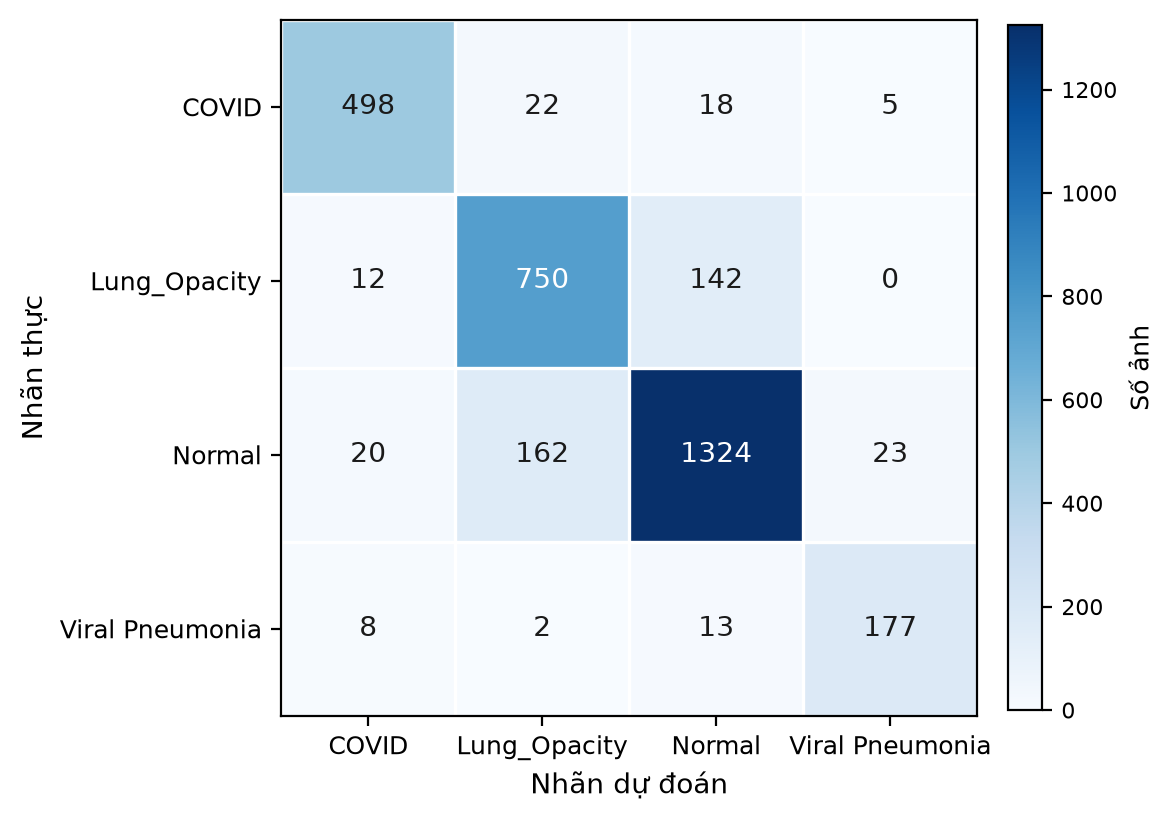
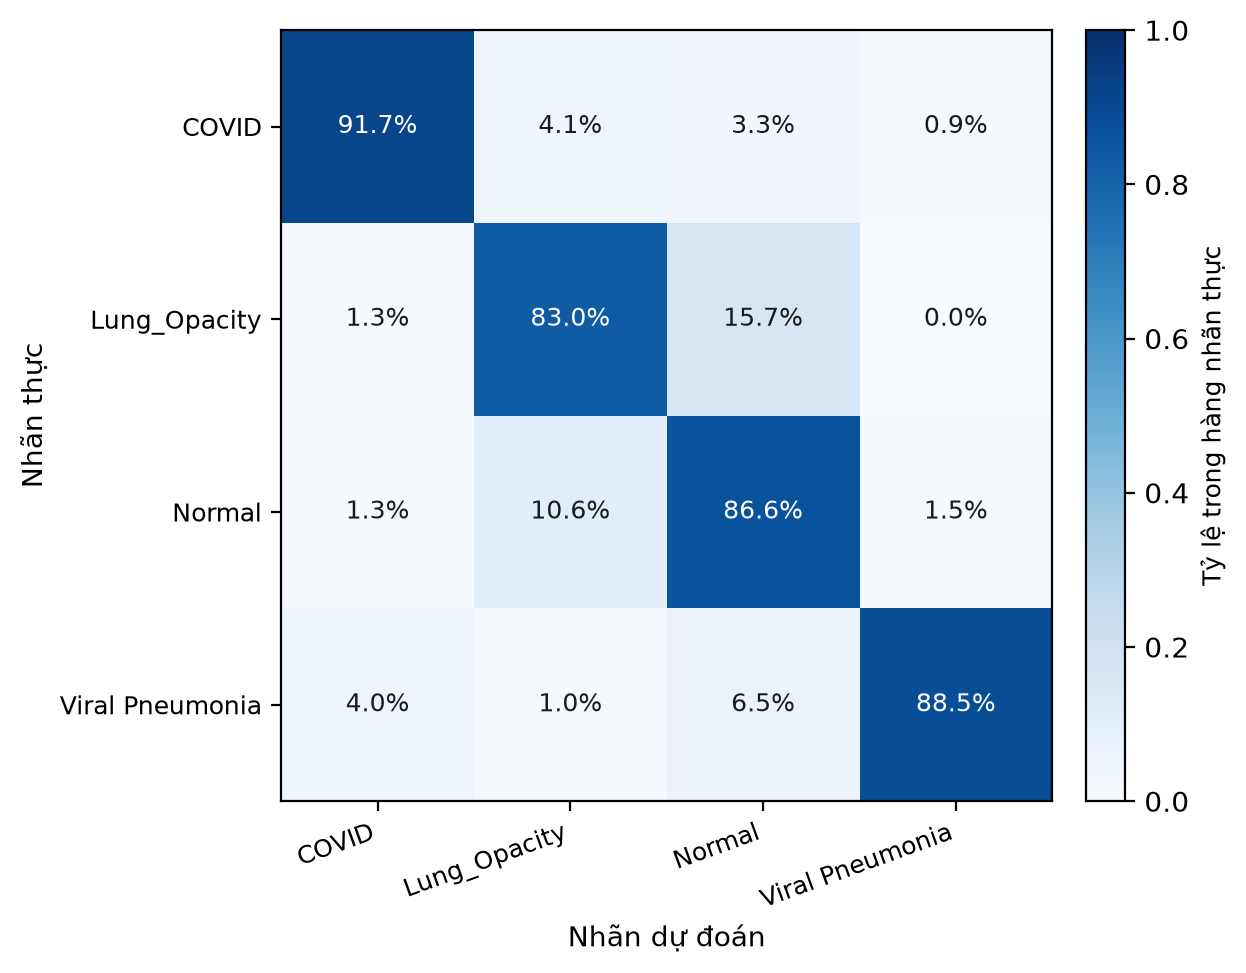
report: chapters 1/2/4/5 fixes per senior review + gap fixes beyond the review
Cac sua theo review senior ve ch5/ch6 va lo hong kiem them (ch1, ch2, ch4, ch5, script, README, report_standards):

- H1: muc 5.5.4 mo ta sai hai che đo (ban ghi tuong tac = 20 anh dau sau khi may nghi, mot luot, khong nghi giua cac anh; CPU giam toc ngay tu anh 13 cua lo 20). Viet lai theo dung ban ghi; bo cau 'cung mot mau', 'da thu nghi 1 giay', va bo duong dan src/ khoi than bai.
- H2: bang 5.5 ghi 'tren 600 phep do' nhung p90/p95 tinh tren 200 gia tri trung vi (tren 600 gt: 149,4/165,2). Tieu de, than bai va ghi chu neu ro cach gom.
- Thuat ngu: 'vung ngoai phoi' -> 'vung ngoai mat na phoi' o ch1 (4), ch2 (1), ch4 (14); giu ten kich ban 'chi ngoai phoi'.
- Lam tron: bang 5.3 COVID -4,00 va Lung_Opacity -1,97 tu gia tri chua lam tron; accuracy -2,45 diem (truoc: -4,01, -1,98, 2,44). Ghi chu ghi ca hai cach.
- Hinh 5.1: chuyen sang chuan hoa theo hang nhu Hinh 3.1 (script draw + ham normalize_rows), sinh lai PNG, caption moi, 2 test sua theo, 10 test xanh.
- So bo kiem thuc: 275/23 va '285/24, 273 pass' loi thoi -> 330 phep/25 module, chay thuc te tren moi truong pin: 329 pass, 1 skip (bo qua khi thieu nbformat). Test notebook doc guard pytest.importorskip.
- Trich dan: cau 'tiếp tu [7]' -> [9] o ch1 va ch5; [7]/[8] them ngay truy cap; cau '[7]' o 5.5.1 -> 'dang cong khai tren Hugging Face Hub'.
- 5.4: bo ma D1-D4/G1-G6 khoi than bai (mo ta bang loi, chu ky xuong ghi chu); cau Kaggle theo mau D (ghi nhan cua nguoi thuc hien, bang chung chua luu trong kho), bo S5-04.
[…]

diff --git a/tests/test_report_figures_final_test.py b/tests/test_report_figures_final_test.py
@@ -15,8 +15,8 @@ import pytest
 from scripts.report_figures_final_test import (
     CLASS_LABELS,
     build,
-    cell_labels,
     load_metrics,
+    normalize_rows,
 )
 
 REPO_ROOT = Path(__file__).resolve().parents[1]
@@ -111,21 +111,24 @@ def test_load_metrics_rejects_wrong_matrix_shape(tmp_path: Path) -> None:
         load_metrics(path)
 
 
-def test_cell_labels_are_strings_of_matrix_counts(tmp_path: Path) -> None:
-    """Chữ ghi trong từng ô hình phải là đúng số đếm của ma trận nguồn."""
+def test_row_normalization_matches_source_recall(tmp_path: Path) -> None:
+    """Hàng chuẩn hóa phải cho đúng recall từng lớp như tệp nguồn (ô chéo)."""
     path = tmp_path / "metrics.json"
     _write_metrics(path)
     metrics = load_metrics(path)
 
-    labels: List[List[str]] = cell_labels(metrics["confusion_matrix"])
+    shares = normalize_rows(metrics["confusion_matrix"])
 
-    assert len(labels) == 4 and all(len(row) == 4 for row in labels)
-    assert labels[0][0] == "498"
-    assert labels[1][1] == "750"
-    assert labels[2][3] == "23"
-    assert labels[3][3] == "177"
-    # Mỗi ô đúng một giá trị, không kèm ký tự khác.
-    assert all(value.isdigit() for row in labels for value in row)
+    assert len(shares) == 4 and all(len(row) == 4 for row in shares)
+    for i in range(4):
+        total = sum(metrics["confusion_matrix"][i])
+        assert sum(shares[i]) == pytest.approx(1.0)
+        for j in range(4):
+            assert shares[i][j] == pytest.approx(
+                metrics["confusion_matrix"][i][j] / total
+            )
+    # Hàng tổng 0 không gây lỗi chia.
+    assert normalize_rows([[0, 0], [1, 1]]) == [[0.0, 0.0], [0.5, 0.5]]
 
 
 def test_build_writes_figure_and_returns_source_values(tmp_path: Path) -> None:
@@ -158,10 +161,10 @@ def test_build_uses_real_metrics_file(tmp_path: Path) -> None:
     assert info["per_class"]["COVID"]["support"] == pytest.approx(543)
 
 
-def test_figure_annotations_pinned_to_repo_file(tmp_path: Path) -> None:
-    """Chữ trong ô hình phải khớp từng ô với metrics.json trong repo.
+def test_figure_rows_pinned_to_repo_file(tmp_path: Path) -> None:
+    """Hàng chuẩn hóa trên hình phải khớp từng ô với metrics.json trong repo.
 
-    Đây là chốt chặn chép nhầm: nếu ai sửa tay số trong hình hoặc trong chương
+    Đây là chốt chặn chép nhầm: nếu ai sửa tay nhãn trong hình hoặc trong chương
     lệch với tệp nguồn, kiểm thử này fail.
     """
     if not METRICS.exists():
@@ -169,11 +172,16 @@ def test_figure_annotations_pinned_to_repo_file(tmp_path: Path) -> None:
     source = json.loads(METRICS.read_text(encoding="utf-8"))
     matrix: List[List[int]] = source["confusion_matrix"]
 
-    labels = cell_labels(matrix)
+    shares = normalize_rows(matrix)
 
     for i, row in enumerate(matrix):
+        total = sum(row)
         for j, value in enumerate(row):
-            assert labels[i][j] == str(value)
+            assert shares[i][j] == pytest.approx(value / total)
+    # Ô chéo chính là recall lớp đó trong per_class của tệp nguồn.
+    for i, label in enumerate(CLASS_LABELS):
+        recall = float(source["per_class"][label]["recall"])
+        assert shares[i][i] == pytest.approx(recall)
 
 
 def test_supports_sum_to_test_size(tmp_path: Path) -> None:

diff --git a/scripts/report_figures_final_test.py b/scripts/report_figures_final_test.py
@@ -61,44 +61,48 @@ def load_metrics(metrics_path: Path) -> Dict[str, object]:
     return metrics
 
 
-def cell_labels(matrix: Sequence[Sequence[int]]) -> List[List[str]]:
-    """Chữ ghi trong từng ô hình: đúng số đếm của ma trận nguồn."""
-    return [[str(int(value)) for value in row] for row in matrix]
+def normalize_rows(matrix: Sequence[Sequence[int]]) -> List[List[float]]:
+    """Chuẩn hóa từng hàng cho tổng hàng; hàng tổng 0 giữ 0 để tránh chia cho 0."""
+    out: List[List[float]] = []
+    for row in matrix:
+        total = float(sum(int(value) for value in row))
+        if total <= 0.0:
+            out.append([0.0] * len(row))
+            continue
+        out.append([float(int(value)) / total for value in row])
+    return out
 
 
 def draw(metrics: Dict[str, object], out_path: Path) -> Path:
-    """Vẽ biểu đồ nhiệt ma trận nhầm lẫn, chữ thể hiện số đếm từng ô."""
+    """Vẽ biểu đồ nhiệt ma trận nhầm lẫn, chuẩn hóa theo hàng (ô chéo = recall)."""
     matrix = np.array(metrics["confusion_matrix"], dtype=int)
-    labels = cell_labels(matrix)
+    row_normalized = np.array(normalize_rows(matrix))
 
-    fig, ax = plt.subplots(figsize=(5.6, 4.6))
-    image = ax.imshow(matrix, cmap="Blues", vmin=0, vmax=int(matrix.max()))
-    colorbar = fig.colorbar(image, ax=ax, fraction=0.045, pad=0.04)
-    colorbar.set_label("Số ảnh", fontsize=9)
-    colorbar.ax.tick_params(labelsize=8)
+    fig, ax = plt.subplots(figsize=(6.0, 5.0))
+    image = ax.imshow(row_normalized, cmap="Blues", vmin=0.0, vmax=1.0)
 
-    threshold = float(matrix.max()) / 2.0
-    for i in range(len(CLASS_LABELS)):
-        for j in range(len(CLASS_LABELS)):
-            value = matrix[i, j]
-            ax.text(
-                j,
-                i,
-                str(value),
-                ha="center",
-                va="center",
-                fontsize=10,
-                color="white" if value > threshold else "#1A1A1A",
-            )
-
-    ax.set_xticks(range(len(CLASS_LABELS)), CLASS_LABELS, fontsize=9)
+    ax.set_xticks(range(len(CLASS_LABELS)), CLASS_LABELS, rotation=20, ha="right", fontsize=9)
     ax.set_yticks(range(len(CLASS_LABELS)), CLASS_LABELS, fontsize=9)
     ax.set_xlabel("Nhãn dự đoán", fontsize=10)
     ax.set_ylabel("Nhãn thực", fontsize=10)
-    ax.set_xticks(np.arange(-0.5, len(CLASS_LABELS), 1), minor=True)
-    ax.set_yticks(np.arange(-0.5, len(CLASS_LABELS), 1), minor=True)
-    ax.grid(which="minor", color="white", linewidth=1.2)
-    ax.tick_params(which="minor", length=0)
+
+    for i in range(len(CLASS_LABELS)):
+        for j in range(len(CLASS_LABELS)):
+            share = row_normalized[i, j]
+            color = "white" if share > 0.55 else "#1A1A1A"
+            ax.text(
+                j,
+                i,
+                f"{share:.1%}",
+                ha="center",
+                va="center",
+                fontsize=9,
+                color=color,
+            )
+
+    colorbar = fig.colorbar(image, ax=ax, fraction=0.046, pad=0.04)
+    colorbar.set_label("Tỷ lệ trong hàng nhãn thực", fontsize=9)
+    ax.set_aspect("equal")
     fig.tight_layout()
 
     out_path.parent.mkdir(parents=True, exist_ok=True)

diff --git a/src/inference_latency.py b/src/inference_latency.py
@@ -15,17 +15,12 @@ Quy tắc bắt buộc:
 - Đọc tệp ảnh nằm ngoài đồng hồ (ứng dụng nhận byte từ trình duyệt); đồng hồ chỉ
   bám các bước tính toán.
 
-Hai chế độ đo (phát hiện khi đo thực tế trên máy Windows): sau vài chục ảnh,
-CPU giảm tần và thời gian mỗi ảnh tăng gấp khoảng bốn lần rồi ổn định; nghỉ
-giữa các ảnh không đưa máy về trạng thái lạnh. Vì vậy:
+Hai chế độ đo (phát hiện khi đo thực tế trên máy Windows): sau một đoạn ảnh ngắn, thời gian mỗi ảnh tăng gấp khoảng bốn lần rồi ổn định; ảnh đầu của mỗi đợt đo, chạy ngay sau khi máy nghỉ, vẫn ở mức nhanh. Vì vậy:
 
-- **Chế độ tương tác** (người dùng tải từng ảnh, máy nghỉ giữa các lần): đo bằng
-  lượt **ngắn** (ví dụ ``--n 20``) chạy ngay sau khi máy nghỉ, ghi ra một thư mục
-  riêng (``results/demo_latency_interactive``).
-- **Chế độ chạy liên tục** (xử lý hàng loạt): đo bằng lô dài
-  (``--n 200 --repeats 3``), ghi ra ``results/demo_latency_sustained``.
+- **Chế độ ảnh đầu sau khi máy nghỉ**: đo bằng lượt **ngắn** (mặc định ``--n 20``, ``--repeats 1``) chạy ngay sau khi máy nghỉ, ghi ra một thư mục riêng (``results/demo_latency_interactive``). Lô này không chèn bước nghỉ giữa các ảnh.
+- **Chế độ chạy liên tục** (xử lý hàng loạt): đo bằng lô dài (``--n 200 --repeats 3``), ghi ra ``results/demo_latency_sustained``.
 
-Cùng một script, cùng seed nên hai bản ghi so trực tiếp được.
+Cùng một script, cùng seed, cùng cách chọn ảnh trên split ``val`` nên hai bản ghi so trực tiếp được; hai bản ghi dùng hai cỡ mẫu nên chỉ so ở mức phân phối, không so từng ảnh.
 
 Chạy trên máy cục bộ::
 

diff --git a/tests/test_inference_demo_notebook.py b/tests/test_inference_demo_notebook.py
@@ -29,8 +29,7 @@ def _cells(nb: dict, kind: str) -> List[str]:
 
 
 def test_notebook_is_valid_nbformat(nb: dict) -> None:
-    import nbformat
-
+    nbformat = pytest.importorskip("nbformat")
     nbformat.validate(nbformat.from_dict(nb))
 
 

diff --git a/report/01_gioi_thieu.md b/report/01_gioi_thieu.md
@@ -10,7 +10,7 @@ Nhãn lớp trong bộ dữ liệu không độc lập hoàn toàn với nguồn
 
 Đề tài dùng học máy cổ điển vì học phần quy định như vậy. Cách làm này cũng thuận cho việc đo đóng góp của từng nhóm đặc trưng: mỗi chiều đặc trưng ứng với một phép đo xác định trên ảnh nên so sánh thực nghiệm tách riêng được phần đóng góp của histogram, GLCM kết hợp LBP hay HOG. Toàn bộ pipeline trích đặc trưng thủ công rồi phân loại bằng scikit-learn [6] chạy trên CPU, không cần GPU, tái lập được từ một tệp cấu hình. Khi thay vùng ảnh đưa vào trích đặc trưng, mức thay đổi hiệu năng cho biết vai trò của vùng đó.
 
-Đề tài đặt ba câu hỏi nối tiếp trên cùng một tập validation 3.174 ảnh: nhóm đặc trưng nào hiệu quả nhất, bộ phân loại nào phù hợp nhất với nhóm đặc trưng đó, và mô hình còn giữ được hiệu năng bao nhiêu khi vùng phổi bị che hoặc khi chỉ còn vùng ngoài phổi. Câu hỏi thứ ba dùng để kiểm tra nghi vấn lối tắt: nếu mô hình vẫn cho macro-F1 cao khi chỉ còn vùng ngoài phổi thì nhiều khả năng nó dựa vào tín hiệu không liên quan đến tổn thương; nếu macro-F1 giảm mạnh thì vùng phổi đóng góp phần lớn thông tin.
+Đề tài đặt ba câu hỏi nối tiếp trên cùng một tập validation 3.174 ảnh: nhóm đặc trưng nào hiệu quả nhất, bộ phân loại nào phù hợp nhất với nhóm đặc trưng đó, và mô hình còn giữ được hiệu năng bao nhiêu khi vùng phổi bị che hoặc khi chỉ còn vùng ngoài mặt nạ phổi. Câu hỏi thứ ba dùng để kiểm tra nghi vấn lối tắt: nếu mô hình vẫn cho macro-F1 cao khi chỉ còn vùng ngoài mặt nạ phổi thì nhiều khả năng nó dựa vào tín hiệu không liên quan đến tổn thương; nếu macro-F1 giảm mạnh thì vùng phổi đóng góp phần lớn thông tin.
 
 ## 1.2. Mục tiêu và ba câu hỏi nghiên cứu
 
@@ -22,7 +22,7 @@ Bốn nhóm đặc trưng thủ công gồm histogram độ xám 64 chiều, GLC
 
 **RQ2.** Với nhóm đặc trưng tốt nhất từ RQ1, bộ phân loại nào trong sáu ứng viên trên đạt macro-F1 cao nhất?
 
-**RQ3.** Che hoặc cắt ảnh theo mặt nạ phổi có làm thay đổi macro-F1 không, và mức thay đổi đó cho biết gì về mức phụ thuộc của mô hình vào vùng ngoài phổi?
+**RQ3.** Che hoặc cắt ảnh theo mặt nạ phổi có làm thay đổi macro-F1 không, và mức thay đổi đó cho biết gì về mức phụ thuộc của mô hình vào vùng ngoài mặt nạ phổi?
 
 Ba câu hỏi dùng chung một giao thức đọc ảnh: ảnh xám 8-bit kích thước 299 × 299, không resize, không cân bằng histogram. Tham số trích đặc trưng và không gian siêu tham số được chốt trước khi chạy và không sửa sau khi xem điểm. Mọi thành phần ngẫu nhiên dùng seed 42, 43 và 44.
 
@@ -61,7 +61,7 @@ Nằm ngoài phạm vi của đề tài: chẩn đoán lâm sàng, phân đoạn
 
 3. **So sánh sáu bộ phân loại (RQ2).** SVM với kernel RBF (radial basis function) đạt macro-F1 0,9024, cao hơn mốc tham chiếu Random Forest 0,8582. Phần kiểm định và khoảng tin cậy để ở Chương 3.
 
-4. **Đo mức phụ thuộc vào vùng ngoài phổi (RQ3).** Năm kịch bản che mặt nạ phổi kết hợp permutation importance trên 10 khối đặc trưng định lượng phần đóng góp của vùng phổi so với phần còn lại của ảnh. Chương 4 trình bày số đo; mọi diễn giải về chênh lệch đều ghi là giả thuyết chưa kiểm chứng (Quy tắc D4).
+4. **Đo mức phụ thuộc vào vùng ngoài mặt nạ phổi (RQ3).** Năm kịch bản che mặt nạ phổi kết hợp permutation importance trên 10 khối đặc trưng định lượng phần đóng góp của vùng phổi so với phần còn lại của ảnh. Chương 4 trình bày số đo; mọi diễn giải về chênh lệch đều ghi là giả thuyết chưa kiểm chứng (Quy tắc D4).
 
 5. **Ứng dụng minh hoạ.** Ứng dụng Streamlit nhận một ảnh CXR, trả về xác suất bốn lớp và dùng lại đúng hàm trích đặc trưng đã đánh giá.
 
@@ -75,7 +75,7 @@ Chương 5 công bố kết quả trên 3.176 ảnh test, phân tích ma trận 
 
 ## Tài liệu tham khảo phát sinh trong chương
 
-Các mục dưới đây đánh số theo thứ tự xuất hiện trong Chương 1 và giữ nguyên số khi ghép vào danh mục tài liệu tham khảo cuối quyển; tài liệu của các chương sau đánh tiếp từ [7].
+Các mục dưới đây đánh số theo thứ tự xuất hiện trong Chương 1 và giữ nguyên số khi ghép vào danh mục tài liệu tham khảo cuối quyển; tài liệu của các chương sau đánh tiếp từ [9].
 
 [1] M. E. H. Chowdhury, T. Rahman, A. Khandakar, R. Mazhar, M. A. Kadir, Z. B. Mahbub, K. R. Islam, M. S. Khan, A. Iqbal, N. Al-Emadi, M. B. I. Reaz, and M. T. Islam, "Can AI help in screening viral and COVID-19 pneumonia?," *IEEE Access*, vol. 8, pp. 132665–132676, 2020, doi: 10.1109/ACCESS.2020.3010287.
 

diff --git a/report/README.md b/report/README.md
@@ -107,7 +107,7 @@ Bố cục 6 chương theo [`docs/report_standards.md`](../docs/report_standards
 | 5.1 | Kết quả trên tập test độc lập, mở khóa một lần | `results/final_test/final_test_report.json`, `results/final_test/metrics.json`, `results/final_test/UNLOCK_RECORD.json`. Macro-F1 0,8714, CI [0,8579, 0,8840], Accuracy 86,56% |
 | 5.2 | Chênh lệch validation và test (Quy tắc D4) | `results/final_test/final_test_report.json` (`test_minus_val` = −0,0310). Trích nguyên văn D4, không nêu nguyên nhân |
 | 5.3 | Phân tích lỗi sai và cặp nhầm lẫn Normal – Lung_Opacity | Ma trận nhầm lẫn trong `results/final_test/metrics.json`: 427 lỗi, trong đó 304 lỗi thuộc cặp Normal ↔ Lung_Opacity (71,19%). Hình 5.1 sinh bằng `python -m scripts.report_figures_final_test`, kiểm thử `tests/test_report_figures_final_test.py` |
-| 5.4 | Tính độc lập và khả năng tái lập của thực nghiệm | `notebooks/10_final_test_eval.ipynb`; `results/final_test_protocol_record.md` (D1–D4, G1–G6); `results/final_test/UNLOCK_RECORD.json`. Bộ kiểm thử: 275 hàm test trong 23 module (đếm tại thời điểm viết chương; nguồn và cảnh báo môi trường xem Ghi chú kỹ thuật của chương) |
+| 5.4 | Tính độc lập và khả năng tái lập của thực nghiệm | `notebooks/10_final_test_eval.ipynb`; `results/final_test_protocol_record.md` (D1–D4, G1–G6); `results/final_test/UNLOCK_RECORD.json`. Bộ kiểm thử: 330 phép kiểm thử trong 25 module (đếm tại thời điểm nộp; số liệu chạy xem Ghi chú kỹ thuật của chương) |
[1 lines of base64/hex data omitted]
 | 5.5.2 | Giao diện Streamlit và các thành phần tương tác | `demo/streamlit_app.py`; `demo/README.md` |
 | 5.5.3 | Cảnh báo y khoa tích hợp trong ứng dụng | `demo/streamlit_app.py` dòng 61–63; `demo/README.md` mục giới hạn và an toàn |

diff --git a/report/02_du_lieu_va_phuong_phap.md b/report/02_du_lieu_va_phuong_phap.md
@@ -48,7 +48,7 @@ Dấu RGB cũng không trùng với ranh giới nguồn: cả 1.341 ảnh Normal
 
 Mốc A0 ở mục 1.2 là phép thử trực tiếp cho hai kênh này. Random Forest chỉ dùng độ sáng trung bình và cờ is_rgb đạt macro-F1 0,2397 trên validation, cao hơn mốc 0,1627 của bộ luôn đoán Normal nhưng còn rất xa 0,8599 của nhóm đặc trưng ghép, nên hai kênh này tự chúng không đủ để phân loại. Tuy nhiên A0 chỉ dùng một con số độ sáng, trong khi histogram và các đặc trưng khác giữ nhiều thông tin cường độ hơn. A0 vì thế chỉ là cận dưới của mức lối tắt từ cường độ, chưa loại trừ được nó.
 
-Những quan sát trên mới mô tả dữ liệu và một mốc tham chiếu đơn giản; chúng chưa cho biết mô hình dùng đặc trưng ảnh có dựa vào các dấu hiệu đó hay không. Phép đo này thuộc RQ3: che vùng phổi hoặc chỉ giữ vùng ngoài phổi rồi so macro-F1 với ảnh gốc. Chương 4 trình bày năm kịch bản của phép đo.
+Những quan sát trên mới mô tả dữ liệu và một mốc tham chiếu đơn giản; chúng chưa cho biết mô hình dùng đặc trưng ảnh có dựa vào các dấu hiệu đó hay không. Phép đo này thuộc RQ3: che vùng trong phổi hoặc chỉ giữ vùng ngoài mặt nạ phổi rồi so macro-F1 với ảnh gốc. Chương 4 trình bày năm kịch bản của phép đo.
 
 ## 2.3. Gom nhóm ảnh trùng bằng pHash ngưỡng T = 0
 
